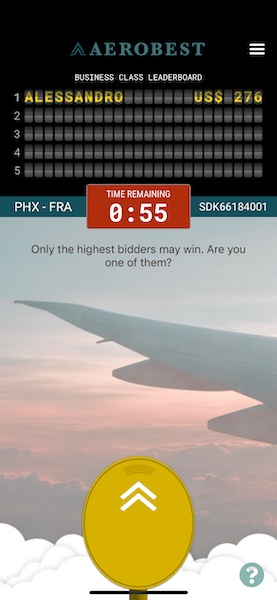
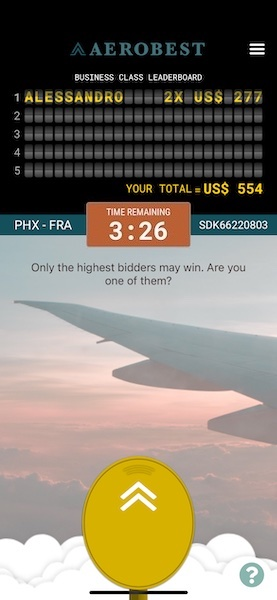
multi pax

diff --git a/docs/plugins/theme-helper/aerobest-theme/bidding-2.js b/docs/plugins/theme-helper/aerobest-theme/bidding-2.js
@@ -2,10 +2,11 @@ import { biddingTopCoords, biddingBottomCoords  } from './bidding.js';
 import { leaderboardCoords  } from './leaderboard.js';
 
 export var bidding2Coords = Object.assign({}, biddingTopCoords, leaderboardCoords, {
-	'auction-timer': ['87,185,190,229'],
-	'leaderboard-bar': ['0,197,87,218', '191,197,277,218'],
-	'leaderboard-bg': ['0,64,277,197'],
-	'msg-carousel': ['10,240,267,275'],
+	'leaderboard-total': ['22,180,264,199'], 
+	'auction-timer': ['87,203,190,247'],
+	'leaderboard-bar': ['0,216,87,236', '191,216,277,236'],
+	'leaderboard-bg': ['0,64,277,216'],
+	'msg-carousel': ['10,257,267,292'],
 	'golden-paddle': ['80,456,196,600'],
 	'help-icon': ['236,560,268,591'],
 }, biddingBottomCoords); 

diff --git a/docs/plugins/theme-helper/attributes-map.js b/docs/plugins/theme-helper/attributes-map.js
@@ -123,6 +123,9 @@ export var attributesMap = {
   'leaderboard-title': {
     'liveAuction.titleTextColor': 'Text color for leaderboard title'
   },
+  'leaderboard-total': {
+    'liveAuction.leaderboard.primaryTextColor': 'Text color used in total label',
+  },
   'left-paddle': {
     'liveAuction.paddle.left.backgroundColor': 'Background color used on the left paddle',
     'liveAuction.paddle.left.textColor': 'Text color used on the left paddle'

diff --git a/docs/plugins/theme-helper/aerobest-theme/leaderboard.js b/docs/plugins/theme-helper/aerobest-theme/leaderboard.js
@@ -1,4 +1,6 @@
 export var leaderboardCoords = {
+	'no-colors-applied': ['12,88,22,107','12,106,22,125', '12,124,22,143', '12,142,22,161', 
+		'12,160,22,179'],
 	'leaderboard-row': ['22,88,264,107', '22,106,264,125','22,124,264,143',
 		'22,142,264,161', '22,160,264,179']
 }

diff --git a/docs/plugins/theme-helper/README.md b/docs/plugins/theme-helper/README.md
@@ -1,8 +1,16 @@
+- select upgrade more items ? (cabin visuals and multi pax)
+- payment lock button
+- leaderboard multi passengers
+- leaderboard row indexes
+- end auction - lost screen and multi pax
+
+
+
+
 - These two attributes below are not being used on ios, but they should, please check it out on android.
 
 auctionDetails.progressBar.futureColor
 auctionDetails.progressBar.activeColor
-
 
 - auctionDetails.navigationBar.seatboostLogo is not being used in both plataforms at all.
 
